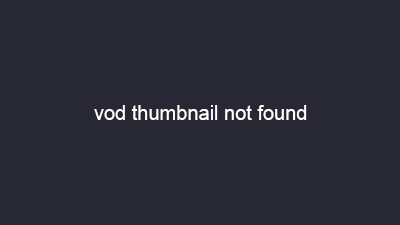
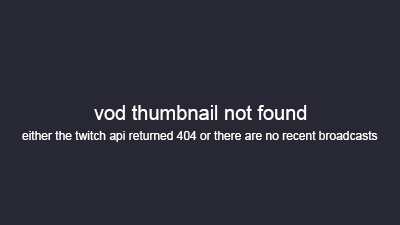
initial release

Changed region(s): [[0.03, 0.56, 0.96, 0.6222]]

diff --git a/support.html b/support.html
@@ -5,7 +5,7 @@
 		<link rel="shortcut icon" href="img/favicon.ico">
 		<meta charset="utf-8" />
 		<meta name="viewport" content="width=device-width, initial-scale=1" />
-		<link rel="stylesheet" href="css/main.css" />
+		<link rel="stylesheet" href="css/main.css?revision=release" />
 	</head>
 	<body>
 		<div id="page-wrapper">
@@ -31,7 +31,7 @@
 					<div class="container">
 						<header class="major">
 							<h2>Support</h2>
-							<p>Ways to show JT your support outside of the stream</p>
+							<p>How you can support JT outside of the stream</p>
 						</header>
 
 						<style type="text/css">
@@ -45,23 +45,27 @@
 						
 						<!-- Text -->
 							<section class="support" style="width: 75%; margin: auto;">
-								<img src="img/social/gamewisp.svg" class="nodrag" height="50" width="50"/>
+								<img src="img/social/streamlabs.svg" class="nodrag" />
+								<h3>StreamLabs</h3>
+								<p>Support JT with a normal stream donation. If stream is live, you will be recognized on screen.<br /><a href="https://twitch.streamlabs.com/yaboijt_gaming">Click Here</a></p>
+								
+								<img src="img/social/gamewisp.svg" class="nodrag"/>
 								<h3>GameWisp</h3>
 								<p>GameWisp is a monthly subscription service. Support JT on GameWisp and receive subscriber benefits and rewards!<br /><a href="https://gamewisp.com/channel/yaboijt_gaming/public">Click Here</a></p>
 								
-								<img src="img/social/tad.svg" class="nodrag" height="50" width="50"/>
+								<img src="img/social/tad.svg" class="nodrag" />
 								<h3>Tad</h3>
 								<p>Tad is a way to watch ads that appeal to you, while supporting JT. Download the app and watch ads when you want to. This is a great way to support JT for free.<br /><a href="http://givetad.com/YaBoiJT">Click Here</a></p>
 						
-								<img src="img/social/apexhosting.svg" class="nodrag" height="50" width="50"  />	
+								<img src="img/social/apexhosting.svg" class="nodrag" />	
 								<h3>Apex Hosting</h3>
 								<p>Apex Hosting is a high quality Minecraft server provider. By using JT's link, you can get your own server for a great price, and support JT at the same time.<br /><a href="http://billing.apexminecrafthosting.com/aff.php?aff=1313">Click Here</a></p>
 								
-								<img src="img/social/topstreamers.svg" class="nodrag" height="60" width="60" />
+								<img src="img/social/topstreamers.svg" class="nodrag" style="height: 60px; width: 60px;" />
 								<h3>TopStreamers</h3>
 								<p>TopStreamers is another great way to support JT for free. Just visit the website and vote daily.<br /><a href="http://yaboijt_gaming.topstreamers.com/vote">Click Here</a></p>
 								
-								<img src="img/social/razer.svg" class="nodrag" height="50" width="50" />
+								<img src="img/social/razer.svg" class="nodrag" />
 								<h3>Razer</h3>
 								<p>JT is a proud partner of Razer. Visit Razer's website with JT's link to buy some awesome gaming gear and support JT at the same time.<br /><a href="http://www.razerzone.com/store?utm_source=affiliates&utm_medium=OND&src=pgm.95762800&ClickID=aolvk5skwop90lszlpwknskssyszly0l9rklvk">Click Here</a></p>		
 							</section>

diff --git a/social.html b/social.html
@@ -5,7 +5,7 @@
 		<link rel="shortcut icon" href="img/favicon.ico">
 		<meta charset="utf-8" />
 		<meta name="viewport" content="width=device-width, initial-scale=1" />
-		<link rel="stylesheet" href="css/main.css" />
+		<link rel="stylesheet" href="css/main.css?revision=release" />
 	</head>
 	<body>
 		<div id="page-wrapper">
@@ -41,27 +41,27 @@
 							<section class="hidden-phone" style="width: 60%; margin: auto;">
 								<div class="social-wrapper">
 								<span style="float: left;"><img src="img/social/twitter.svg" class="nodrag social" width="28" height="28" />Twitter &#8674;</span>
-								<span style="float: right;"><a href="https://twitter.com/yaboijt_">YaBoiJT_</a></span>
+								<span style="float: right;"><a href="https://twitter.com/yaboijt_" target="_blank">YaBoiJT_</a></span>
 								</div>
 								<br />
 								<div class="social-wrapper"> 
 								<span style="float: left;"><img src="img/social/youtube.svg" class="nodrag social" width="28" height="28" />YouTube &#8674;</span>
-								<span style="float: right;"><a href="https://www.youtube.com/c/yaboijt">YaBoiJT</a></span>
+								<span style="float: right;"><a href="https://www.youtube.com/c/yaboijt" target="_blank">YaBoiJT</a></span>
 								</div>
 								<br />
 								<div class="social-wrapper">
 								<span style="float: left;"><img src="img/social/discord.svg" class="nodrag social" width="30" height="30" />Discord &#8674;</span>
-								<span style="float: right;"><a href="https://discord.gg/PR2bYhG">discord.gg/PR2bYhG</a></span>
+								<span style="float: right;"><a href="https://discord.gg/PR2bYhG" target="_blank">discord.gg/PR2bYhG</a></span>
 								</div>
 								<br />
 								<div class="social-wrapper">
 								<span style="float: left;"><img src="img/social/instagram.svg" class="nodrag social" width="28" height="28" />Instagram &#8674;</span>
-								<span style="float: right;"><a href="https://www.instagram.com/yaboijt">YaBoiJT</a></span>
+								<span style="float: right;"><a href="https://www.instagram.com/yaboijt" target="_blank">YaBoiJT</a></span>
 								</div>
 								<br />
 								<div class="social-wrapper">
 								<span style="float: left;"><img src="img/social/snapchat.svg" class="nodrag social" width="28" height="28" />Snapchat &#8674;</span>
-								<span style="float: right;"><a href="https://www.snapchat.com/add/yaboijt17">YaBoiJT17</a></span>
+								<span style="float: right;"><a href="https://www.snapchat.com/add/yaboijt17" target="_blank">YaBoiJT17</a></span>
 								</div>
 							</section>
 							<!-- mobile version -->

diff --git a/about.html b/about.html
@@ -5,7 +5,7 @@
 		<link rel="shortcut icon" href="img/favicon.ico">
 		<meta charset="utf-8" />
 		<meta name="viewport" content="width=device-width, initial-scale=1" />
-		<link rel="stylesheet" href="css/main.css" />
+		<link rel="stylesheet" href="css/main.css?revision=release" />
 	</head>
 	<body>
 		<div id="page-wrapper">
@@ -36,15 +36,13 @@
 
 						<!-- Text -->
 							<section>
-								<div style="text-align: center; margin: 20px;">
-									<img src="https://placehold.it/300x400?text=Picture+of+JT" width="300" height="400" />
+								<div style="text-align: center; margin-top: -30px; margin-bottom: 20px;">
+									<img src="img/jt.jpg" class="aboutImg nodrag" />
 								</div>
 								<blockquote>
-								My name is Justin and I'm a Minecraft Youtuber/Twitch Streamer. 
-								I am 19 years old and am attending college to study Pastoral Ministries while doing small time work on the side. 
-								I enjoy what I do with my YouTube and Twitch experience! Any specific questions about me, ask in the stream chat and 
-								I'll do my best to answer!
+								My name is Justin but you can call me JT! I'm a 19 year old Twitch Streamer who loves the Twitch community and just streaming to have fun and meet you guys! I'm currently a college student studying Pastoral Ministries while doing Twitch and coaching soccer on the side. I overuse the word "Kappa" on and off the screen and I'm very cringey but I hope you enjoy my streams as much as I enjoy my own streams Kappa (See what I did there?). Thank you for taking the time to check me out! Leave your rate out of 10 in my Twitch chat!
 								</blockquote>
+								<div style="text-align: center; color: #1CE736; margin-top: -30px;"><cite>-YaBoiJT</cite></div>
 							</section>
 					</div>
 				</div>

diff --git a/schedule.html b/schedule.html
@@ -5,7 +5,7 @@
 		<link rel="shortcut icon" href="img/favicon.ico">
 		<meta charset="utf-8" />
 		<meta name="viewport" content="width=device-width, initial-scale=1" />
-		<link rel="stylesheet" href="css/main.css" />
+		<link rel="stylesheet" href="css/main.css?revision=release" />
 	</head>
 	<body>
 		<div id="page-wrapper">
@@ -37,7 +37,8 @@
 						<!-- Text -->
 							<section style="width: 75%; margin: auto; text-align: center;">
 								<div class="table-wrapper">
-									<table class="alt">
+									<table class="alt streamSchedule">
+										<caption>* subject to change</caption>
 										<thead>
 											<tr>
 												<th style="text-align: center">Day</th>
@@ -51,23 +52,23 @@
 											</tr>
 											<tr>
 												<td>Monday</td>
-												<td>2:00 PM - 6:00 PM</td>
+												<td>7:00 PM - 11:00 PM</td>
 											</tr>
 											<tr>
 												<td>Tuesday</td>
-												<td>No Stream</td>
+												<td>7:00 PM - 11:00 PM</td>
 											</tr>
 											<tr>
 												<td>Wednesday</td>
-												<td>2:00 PM - 6:00 PM</td>
+												<td>7:00 PM - 11:00 PM</td>
 											</tr>
 											<tr>
 												<td>Thursday</td>
-												<td>2:00 PM - 6:00 PM</td>
+												<td>No Scheduled Stream *</td>
 											</tr>
 											<tr>
 												<td>Friday</td>
-												<td>8:00 PM - 2:00 AM</td>
+												<td>8:00 PM - 1:00 AM *</td>
 											</tr>
 											<tr>
 												<td>Saturday</td>

diff --git a/index.html b/index.html
@@ -5,7 +5,7 @@
 		<link rel="shortcut icon" href="img/favicon.ico">
 		<meta charset="utf-8" />
 		<meta name="viewport" content="width=device-width, initial-scale=1" />
-		<link rel="stylesheet" href="css/main.css?revision=9-24-16" />
+		<link rel="stylesheet" href="css/main.css?revision=release" />
 		<script src="https://code.jquery.com/jquery-3.1.0.min.js"></script>
 		<script src="js/streamFunctions.js?revision=9-22-16"></script>
 		<script src="js/vods.js"></script>
@@ -56,7 +56,7 @@
 						<h5 id="streaminfo" style="color:#FFF;"></h5>
 						<a id="popout-chat" href="#" onclick="javascript:window.open('https://www.twitch.tv/yaboijt_gaming/chat', 'popoutChat', 'width=400,height=650'); return false;" style="font-size: 12px; margin-top:-60px;">Pop-out chat</a>
 						<br />
-						<img id="vod-thumbnail" class="nodrag" style="position:absolute;z-index:3;" src="" height="450" width="800"/>		
+						<img id="vod-thumbnail" class="nodrag" style="position:absolute;z-index:3;" src="" height="450" width="800" onerror="this.src='img/vod-thumbnail-error-lg.png';" />		
 						<span class="button-play" style="margin-top:285px;" id="playButton"><a class="button big" onclick="pressPlay(); return false;"><strong style="color:#FFF;">Start Watching</strong></a></span>
 						<iframe style="z-index:2; resize: both;" id="player" class="twitch-player" height="450" width="800" frameborder="0" margin="0" src="" allowfullscreen></iframe>
 						</div>

diff --git a/specs.html b/specs.html
@@ -5,7 +5,7 @@
 		<link rel="shortcut icon" href="img/favicon.ico">
 		<meta charset="utf-8" />
 		<meta name="viewport" content="width=device-width, initial-scale=1" />
-		<link rel="stylesheet" href="css/main.css" />
+		<link rel="stylesheet" href="css/main.css?revision=release" />
 	</head>
 	<body>
 		<div id="page-wrapper">
@@ -36,7 +36,7 @@
 
 						<!-- Text -->
 							<section style="width: 75%; margin: auto;">
-							<img class="nodrag hidden-phone hidden-tablet" style="position: relative;float: right;margin: 0px 0px 0px 0px;" src="https://placehold.it/550x804?text=Picture+of+computer" height="502" width="375">
+							<img class="nodrag hidden-phone hidden-tablet" style="position: relative;float: right;margin: 0px 0px 0px 0px;" src="https://placehold.it/550x804?text=Picture+coming+soon" height="502" width="375">
 								<ul id="specsList">
 									<style type="text/css">#specsList li {margin: 40px 0;}</style>
 									<li>Processor: Intel <sup>&reg;</sup> Core <sup>&trade;</sup>i5-6600k</li>

diff --git a/old/index.html b/old/index.html
@@ -14,6 +14,7 @@
 		<link rel="stylesheet" href="css/skel.css" />
 		<link rel="stylesheet" href="css/style.css" />
 		<link rel="stylesheet" href="css/style-xlarge.css" />
+		
 	</head>
 	<body class="landing">
 
@@ -51,7 +52,7 @@
 			<div class="videobox">
 			<p id="title" style="margin-bottom:10px;"></p>
 			<h5 id="streaminfo" style="color:#FFF;"></h5>
-			<img id="vod-thumbnail" class="nodrag" style="position:absolute;z-index:3;" src="" height="659" width="1170"/>
+			<img id="vod-thumbnail" class="nodrag" style="position:absolute;z-index:3;" src="" height="659" width="1170" onerror="this.src='../img/vod-thumbnail-error-lg.png';"/>
 			<span class="button-play" style="margin-top:275px;" id="playButton"><a class="button big" onclick="pressPlay(); return false;"><strong style="color:#FFF;">Start Watching</strong></a></span>
             <iframe style="z-index:2;" id="player" class="twitch-player" height="659" width="1170" frameborder="0" margin="0" src="" allowfullscreen></iframe>
 			</div>

diff --git a/css/main.css b/css/main.css
@@ -62,6 +62,29 @@ max-width: 20em;
 width: 75%;
 }
 
+
+.aboutImg {
+	width: 300px;
+	height: 400px;
+}
+
+@media (max-width: 767px) {
+	.aboutImg {
+		width: 250px;
+		height: 334px;
+	}
+}
+
+table.streamSchedule caption {
+	caption-side: bottom;
+	font-size: 14px;
+}
+
+section.support img {
+	height: 50px;
+	width: 50px;
+}
+
 /* responsive stuff */
 .hidden {
   display: none;

diff --git a/followage.html b/followage.html
@@ -5,7 +5,7 @@
 		<link rel="shortcut icon" href="img/favicon.ico">
 		<meta charset="utf-8" />
 		<meta name="viewport" content="width=device-width, initial-scale=1" />
-		<link rel="stylesheet" href="css/main.css" />
+		<link rel="stylesheet" href="css/main.css?revision=release" />
 		<script src="https://code.jquery.com/jquery-1.8.3.min.js"></script>
 	</head>
 	<body>

diff --git a/rules.html b/rules.html
@@ -5,7 +5,7 @@
 		<link rel="shortcut icon" href="img/favicon.ico">
 		<meta charset="utf-8" />
 		<meta name="viewport" content="width=device-width, initial-scale=1" />
-		<link rel="stylesheet" href="css/main.css" />
+		<link rel="stylesheet" href="css/main.css?revision=release" />
 	</head>
 	<body>
 		<div id="page-wrapper">
